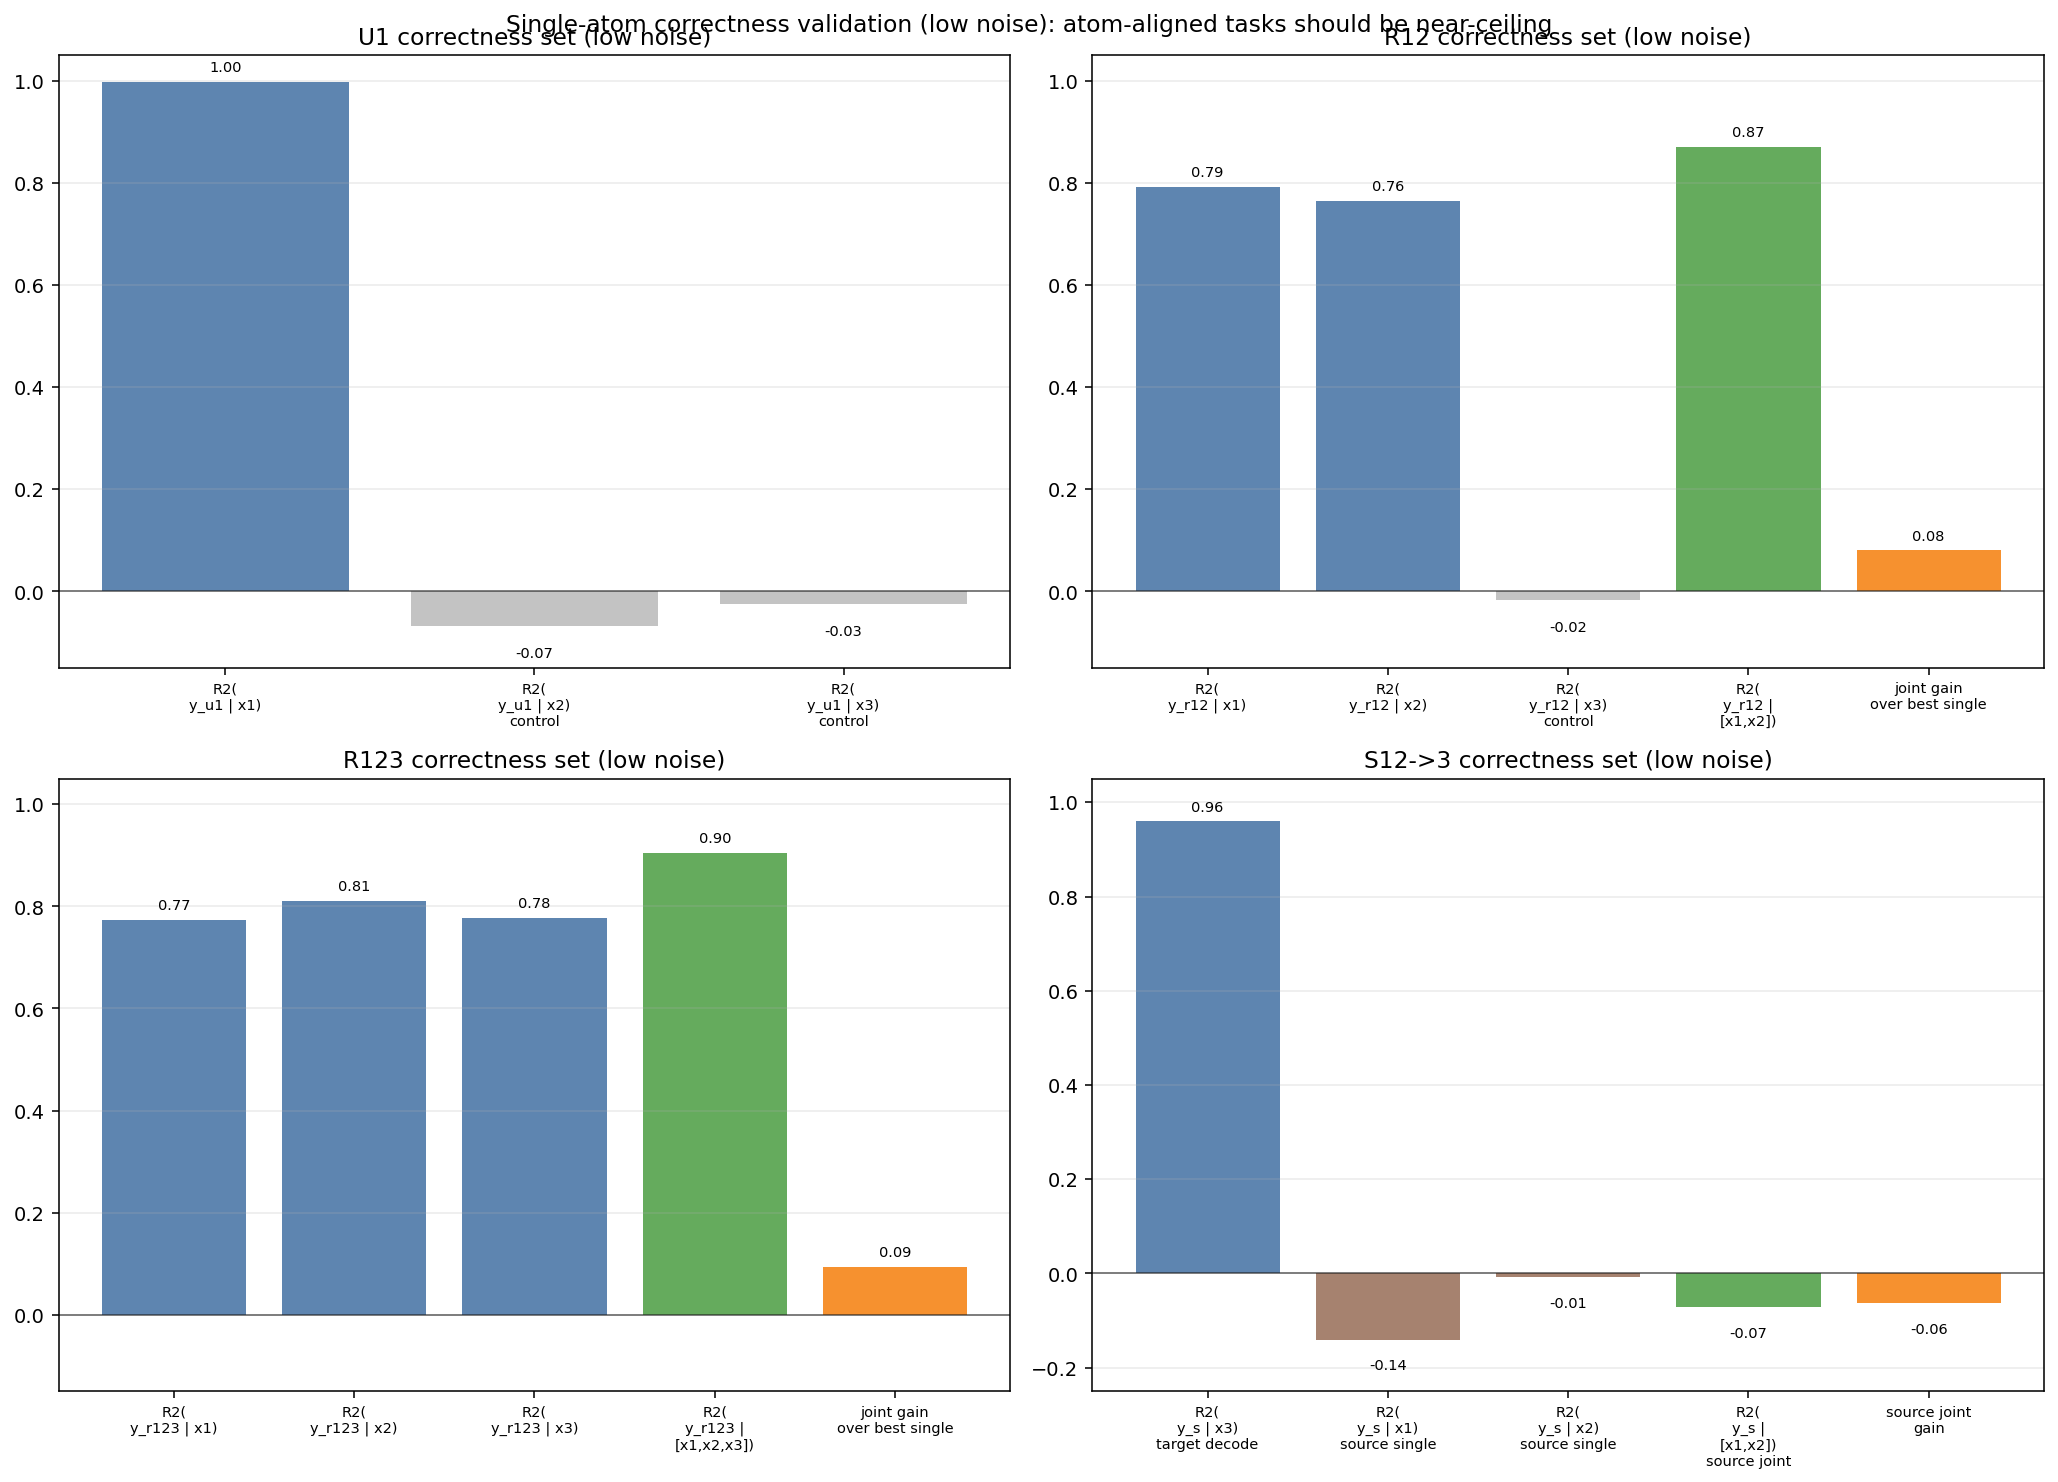
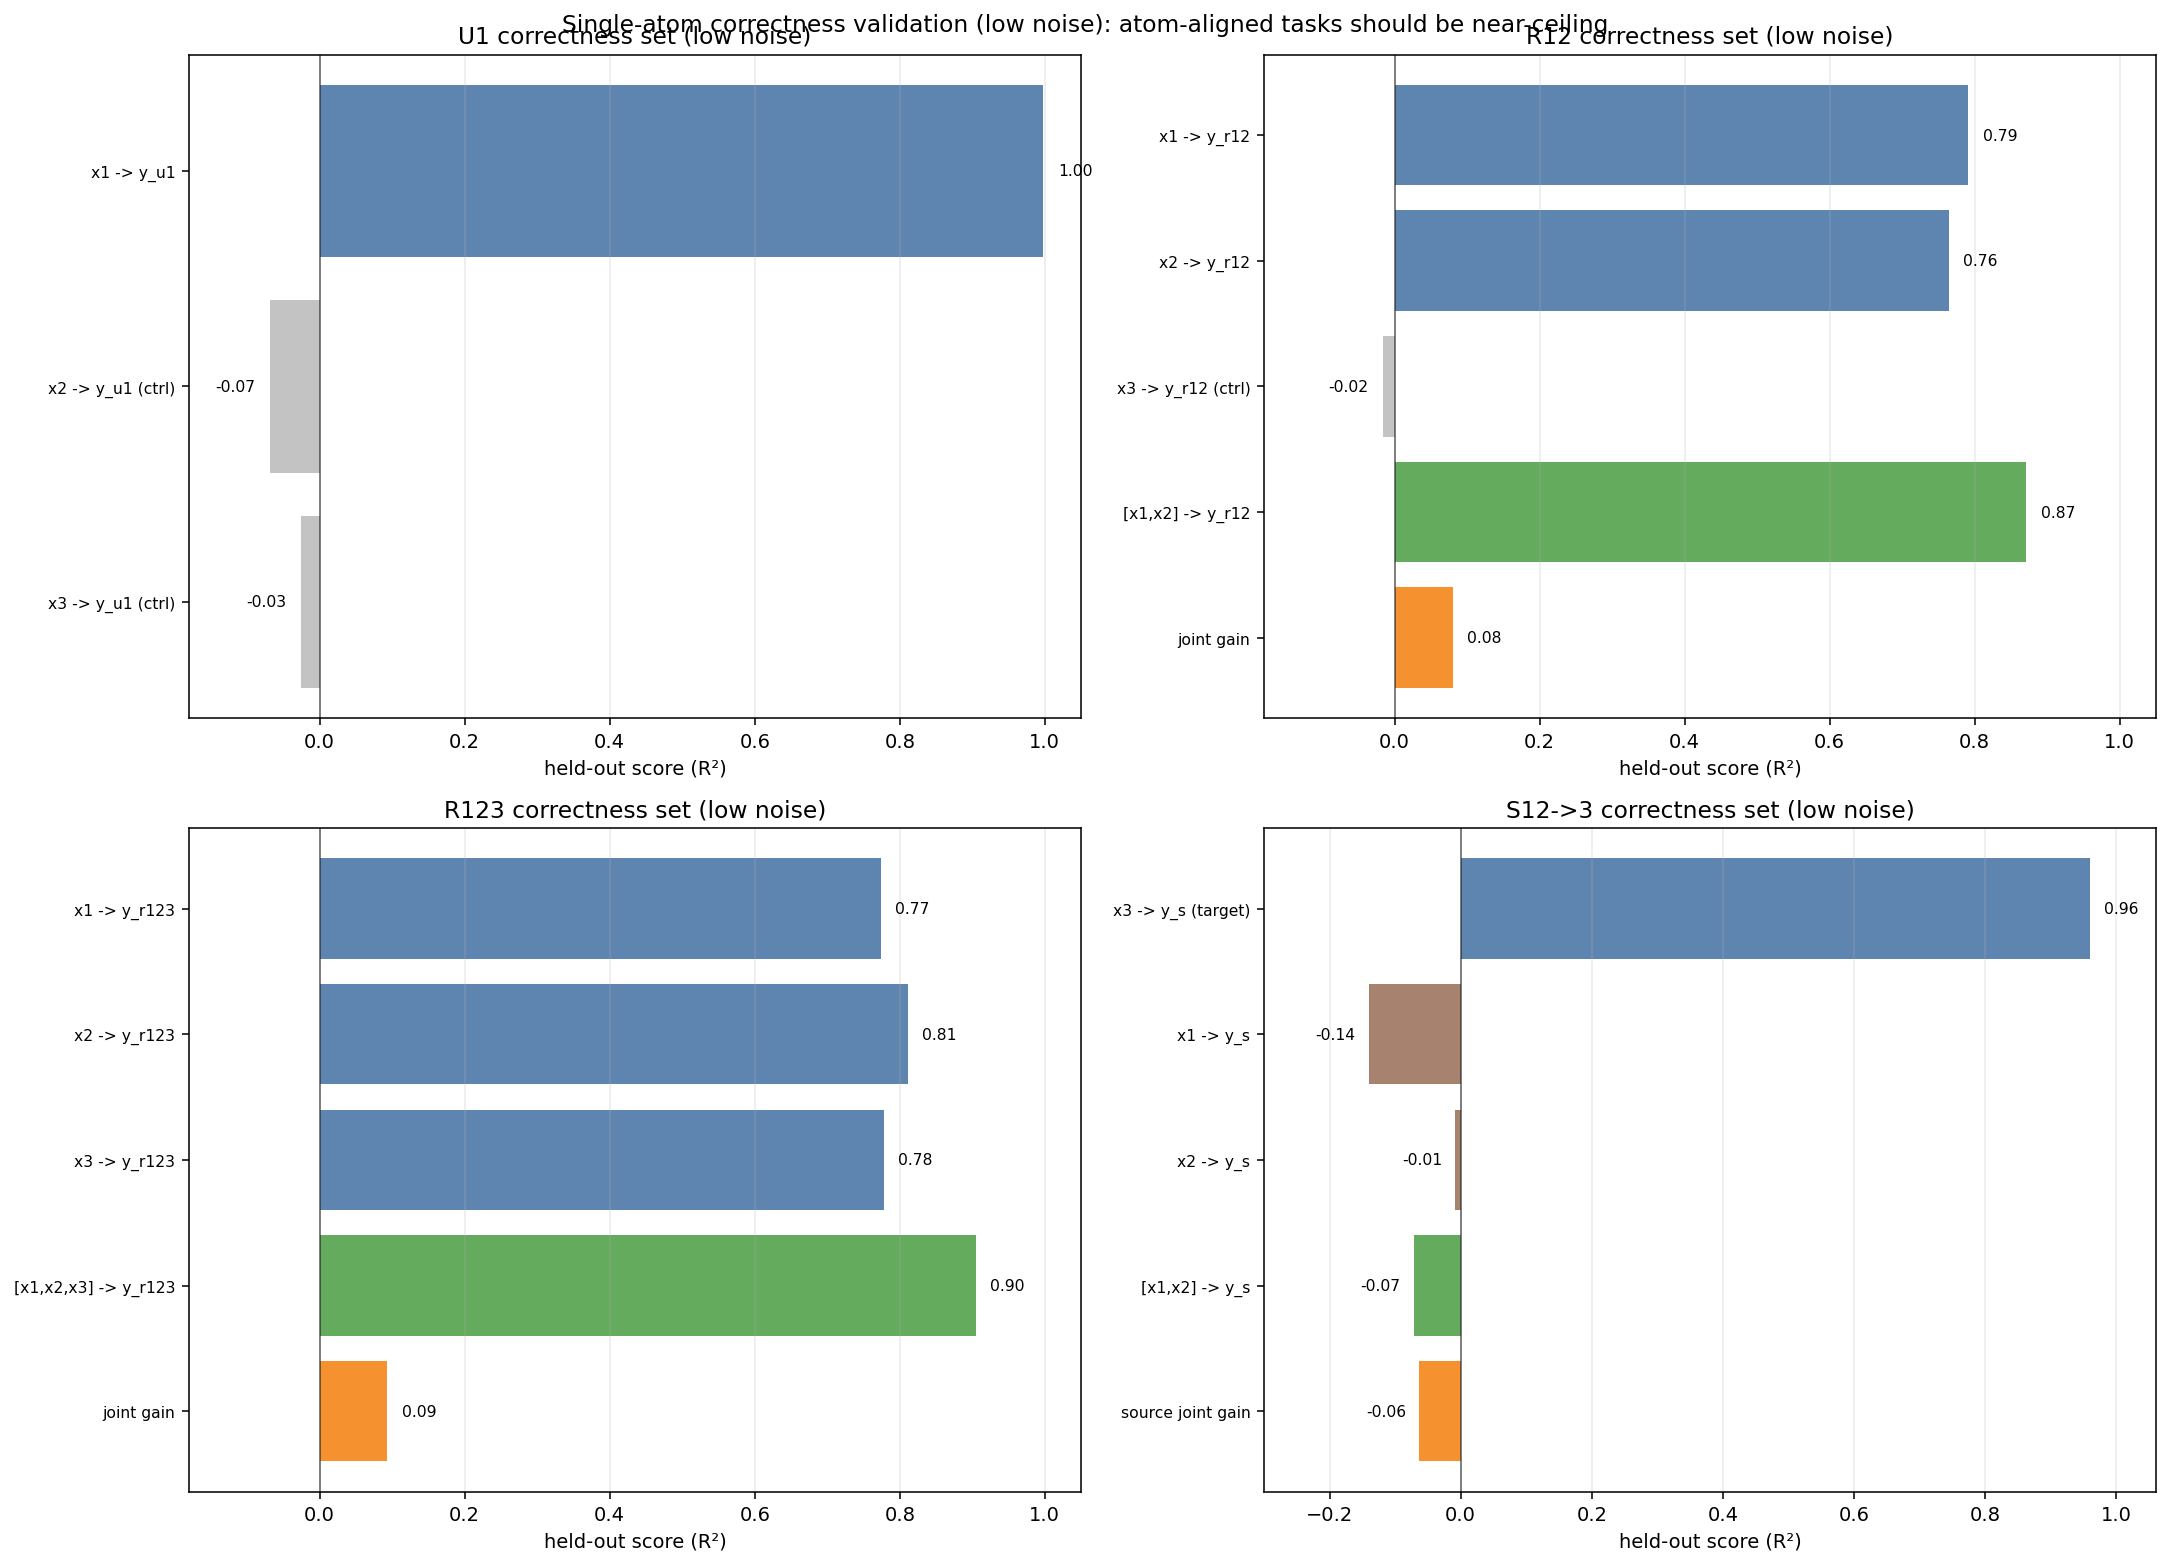
mib

diff --git a/tests/test_pid_sar3_dataset.py b/tests/test_pid_sar3_dataset.py
@@ -947,10 +947,10 @@ def test_plot_single_atom_correctness_validation():
         ]
     )
 
-    # Plot as four compact panels (one per correctness set) to avoid mixing incomparable metrics.
+    # Plot as four panels (one per correctness set) with horizontal bars for readability.
     atom_order = ["U1", "R12", "R123", "S12->3"]
     atom_rows = {a: [r for r in rows if r["atom"] == a] for a in atom_order}
-    fig, axes = plt.subplots(2, 2, figsize=(14.8, 10.6))
+    fig, axes = plt.subplots(2, 2, figsize=(15.6, 11.2))
     axes = axes.ravel()
     palette = {
         "main": "#4c78a8",
@@ -962,20 +962,14 @@ def test_plot_single_atom_correctness_validation():
     for ax, atom in zip(axes, atom_order):
         atom_metrics = atom_rows[atom]
         raw_labels = [m["metric"] for m in atom_metrics]
-        labels = []
-        for lbl in raw_labels:
-            lbl = (
-                lbl.replace("R2(", "R2(\n")
-                .replace(") control", ")\ncontrol")
-                .replace(") source single", ")\nsource single")
-                .replace(") source joint", ")\nsource joint")
-                .replace("joint gain over best single", "joint gain\nover best single")
-                .replace("source joint gain", "source joint\ngain")
-                .replace(" | [x1,x2,x3])", " |\n[x1,x2,x3])")
-                .replace(" | [x1,x2])", " |\n[x1,x2])")
-                .replace(" target decode", "\ntarget decode")
-            )
-            labels.append(lbl)
+        if atom == "U1":
+            labels = ["x1 -> y_u1", "x2 -> y_u1 (ctrl)", "x3 -> y_u1 (ctrl)"]
+        elif atom == "R12":
+            labels = ["x1 -> y_r12", "x2 -> y_r12", "x3 -> y_r12 (ctrl)", "[x1,x2] -> y_r12", "joint gain"]
+        elif atom == "R123":
+            labels = ["x1 -> y_r123", "x2 -> y_r123", "x3 -> y_r123", "[x1,x2,x3] -> y_r123", "joint gain"]
+        else:
+            labels = ["x3 -> y_s (target)", "x1 -> y_s", "x2 -> y_s", "[x1,x2] -> y_s", "source joint gain"]
         vals = np.array([m["score"] for m in atom_metrics], dtype=np.float32)
         colors = []
         for lbl in raw_labels:
@@ -990,23 +984,26 @@ def test_plot_single_atom_correctness_validation():
             else:
                 colors.append(palette["main"])
 
-        x = np.arange(len(labels))
-        ax.bar(x, vals, color=colors, alpha=0.9)
-        ax.axhline(0.0, color="black", linewidth=0.8, alpha=0.6)
+        y = np.arange(len(labels))
+        ax.barh(y, vals, color=colors, alpha=0.9)
+        ax.axvline(0.0, color="black", linewidth=0.8, alpha=0.6)
         ax.set_title(f"{atom} correctness set (low noise)")
-        ax.set_xticks(x)
-        ax.set_xticklabels(labels, rotation=0, ha="center", fontsize=7.5)
-        ax.grid(axis="y", alpha=0.25)
+        ax.set_yticks(y)
+        ax.set_yticklabels(labels, fontsize=8)
+        ax.set_xlabel("held-out score (R²)")
+        ax.grid(axis="x", alpha=0.25)
         for i, v in enumerate(vals):
-            ax.text(i, v + (0.015 if v >= 0 else -0.04), f"{v:.2f}", ha="center", va="bottom" if v >= 0 else "top", fontsize=7.5)
+            pad = 0.02 if v >= 0 else -0.02
+            ax.text(v + pad, i, f"{v:.2f}", va="center", ha="left" if v >= 0 else "right", fontsize=8)
+        ax.invert_yaxis()
 
         if atom in ("U1", "R12", "R123"):
-            ax.set_ylim(min(-0.15, float(np.min(vals)) - 0.05), 1.05)
+            ax.set_xlim(min(-0.18, float(np.min(vals)) - 0.06), 1.05)
         else:
-            ax.set_ylim(min(-0.25, float(np.min(vals)) - 0.05), max(1.05, float(np.max(vals)) + 0.08))
+            ax.set_xlim(min(-0.30, float(np.min(vals)) - 0.06), max(1.05, float(np.max(vals)) + 0.10))
 
     fig.suptitle("Single-atom correctness validation (low noise): atom-aligned tasks should be near-ceiling", y=0.995)
-    fig.subplots_adjust(hspace=0.50, wspace=0.22, bottom=0.12)
+    fig.subplots_adjust(hspace=0.42, wspace=0.42, left=0.12, right=0.98, bottom=0.08, top=0.93)
     _savefig(out_dir / "single_atom_correctness_validation.png")
 
     csv_path = out_dir / "single_atom_correctness_validation.csv"

diff --git a/UR_DATASET_NOTES.md b/UR_DATASET_NOTES.md
@@ -30,7 +30,7 @@ For `U_i`, the generator samples a latent Gaussian vector $u \sim \mathcal{N}(0,
 
 ### 1.7 Pairwise Redundancy Atoms
 
-For `R_{ij}`, the generator samples $r,\eta_i,\eta_j \overset{\mathrm{i.i.d.}}{\sim} \mathcal{N}(0,I_m)$ and constructs view-specific latent realizations with overlap coefficient `rho` as $r_i = \sqrt{\rho}\,r + \sqrt{1-\rho}\,\eta_i$ and $r_j = \sqrt{\rho}\,r + \sqrt{1-\rho}\,\eta_j$. The observations are then generated as $x_i = \alpha P_i^{(R_{ij})} r_i + \varepsilon_i$ and $x_j = \alpha P_j^{(R_{ij})} r_j + \varepsilon_j$, while $x_k = \varepsilon_k$ for $k\notin\{i,j\}$. As `rho` increases, the shared structure between the two active views becomes stronger.
+For `R_{ij}`, the generator first samples three independent latent vectors `r`, `eta_i`, and `eta_j`, each from a standard Gaussian in `R^m`. It then constructs view-specific latent realizations with overlap coefficient `rho` as $r_i = \sqrt{\rho}\,r + \sqrt{1-\rho}\,\eta_i$ and $r_j = \sqrt{\rho}\,r + \sqrt{1-\rho}\,\eta_j$. The observations are generated as $x_i = \alpha P_i^{(R_{ij})} r_i + \varepsilon_i$ and $x_j = \alpha P_j^{(R_{ij})} r_j + \varepsilon_j$, while $x_k = \varepsilon_k$ for $k\notin\{i,j\}$. As `rho` increases, the shared structure between the two active views becomes stronger.
 
 ### 1.8 Triple Redundancy Atom
 
@@ -86,7 +86,19 @@ This section is ordered by evidential value for validating the generator. First 
 
 This is the primary validation figure. Each panel uses a single-atom dataset (`U1`, `R12`, `R123`, or `S12->3`) under low noise (`sigma = 0.05`, `alpha = 1.5`, `rho = 0.8`, `hop = 2`) and tests an atom-aligned target. If this figure fails, the rest of the diagnostics are not interpretable.
 
-Read the figure row-wise. For `U1`, `R²(y_u1 \mid x1)` should be near one and controls from inactive views should be near chance. For `R12`, both `x1` and `x2` should decode `y_r12`, `x3` should remain a control, and `[x1,x2]` should be best. For `R123`, all three views should decode `y_r123`, with `[x1,x2,x3]` strongest. For `S12->3`, the stable correctness criterion is `R²(y_s12_3 \mid x3)` because the synergy latent is linearly projected into view 3.
+In this section, `R²` denotes the held-out coefficient of determination of a probe model (fit on a train split, evaluated on a test split). If $\hat{y}^{\mathrm{te}}$ is the probe prediction on the test split and $y^{\mathrm{te}}$ is the corresponding target, then
+
+```math
+R^2 = 1 - \frac{\sum_n (y_n^{\mathrm{te}} - \hat{y}_n^{\mathrm{te}})^2}{\sum_n (y_n^{\mathrm{te}} - \bar{y}^{\mathrm{te}})^2},
+\qquad
+\bar{y}^{\mathrm{te}} = \frac{1}{N_{\mathrm{te}}}\sum_n y_n^{\mathrm{te}}.
+```
+
+Values near `1` indicate strong predictability, while values near `0` (or negative) indicate poor performance relative to predicting the test-set mean.
+
+The bar labels follow a strict convention: `input -> target`. For example, `x1 -> y_u1` means a probe predicts the latent-derived target `y_u1` from view `x1`, and `[x1,x2] -> y_r12` means a probe predicts `y_r12` from the concatenated views `x1` and `x2`. Labels ending in `(ctrl)` are controls and should stay near chance because that view should not carry the target information. Bars named `joint gain` or `source joint gain` are improvements over the best single-view source and are included only to show whether combining sources helps.
+
+Read the figure row-wise. For `U1`, `x1 -> y_u1` should be near one and both control bars should be near chance. For `R12`, `x1 -> y_r12` and `x2 -> y_r12` should both be high, `x3 -> y_r12 (ctrl)` should remain low, and `[x1,x2] -> y_r12` should be best. For `R123`, all three single-view bars should be high and `[x1,x2,x3] -> y_r123` should be highest. For `S12->3`, the stable correctness criterion is `x3 -> y_s` (target view), because the synergy latent is projected into view 3.
 
 | Atom-only validation set | Metric | Score | Expected behavior |
 | --- | --- | ---: | --- |
